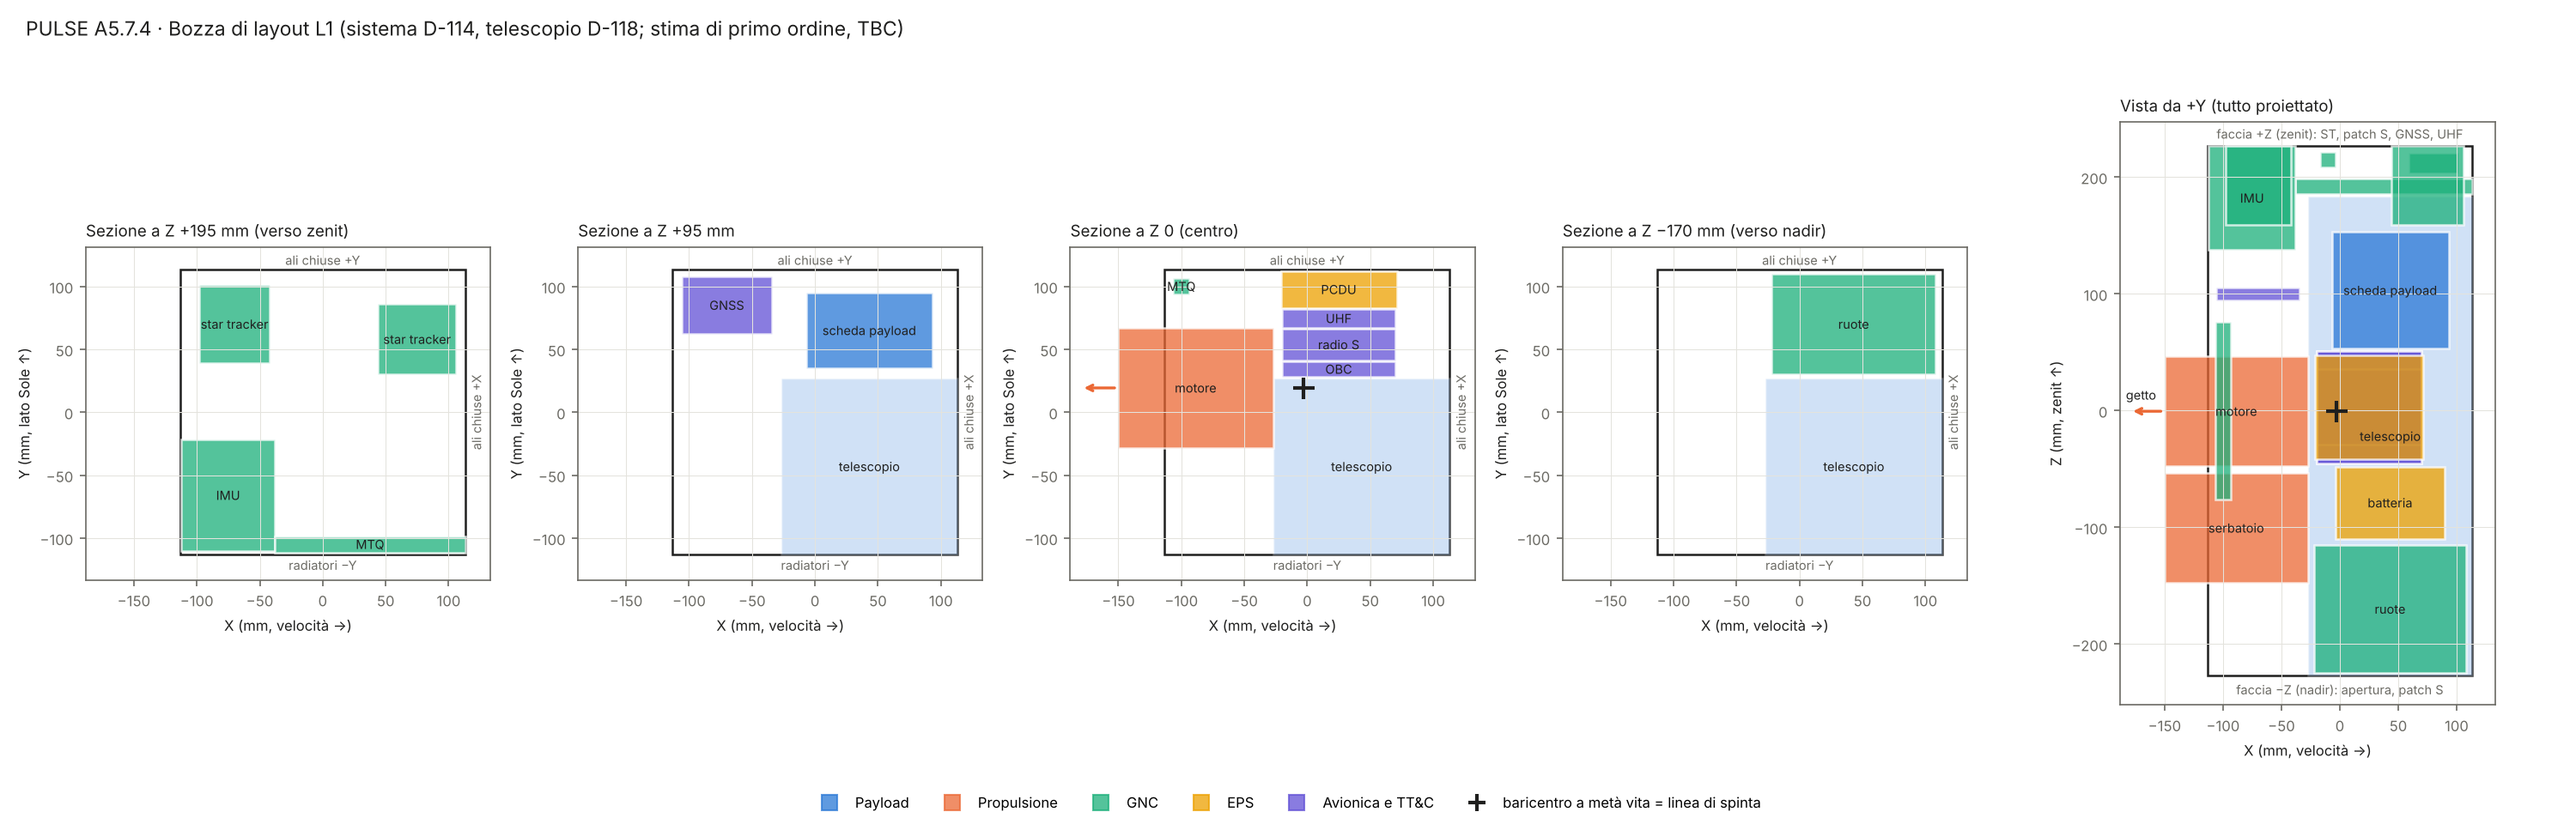
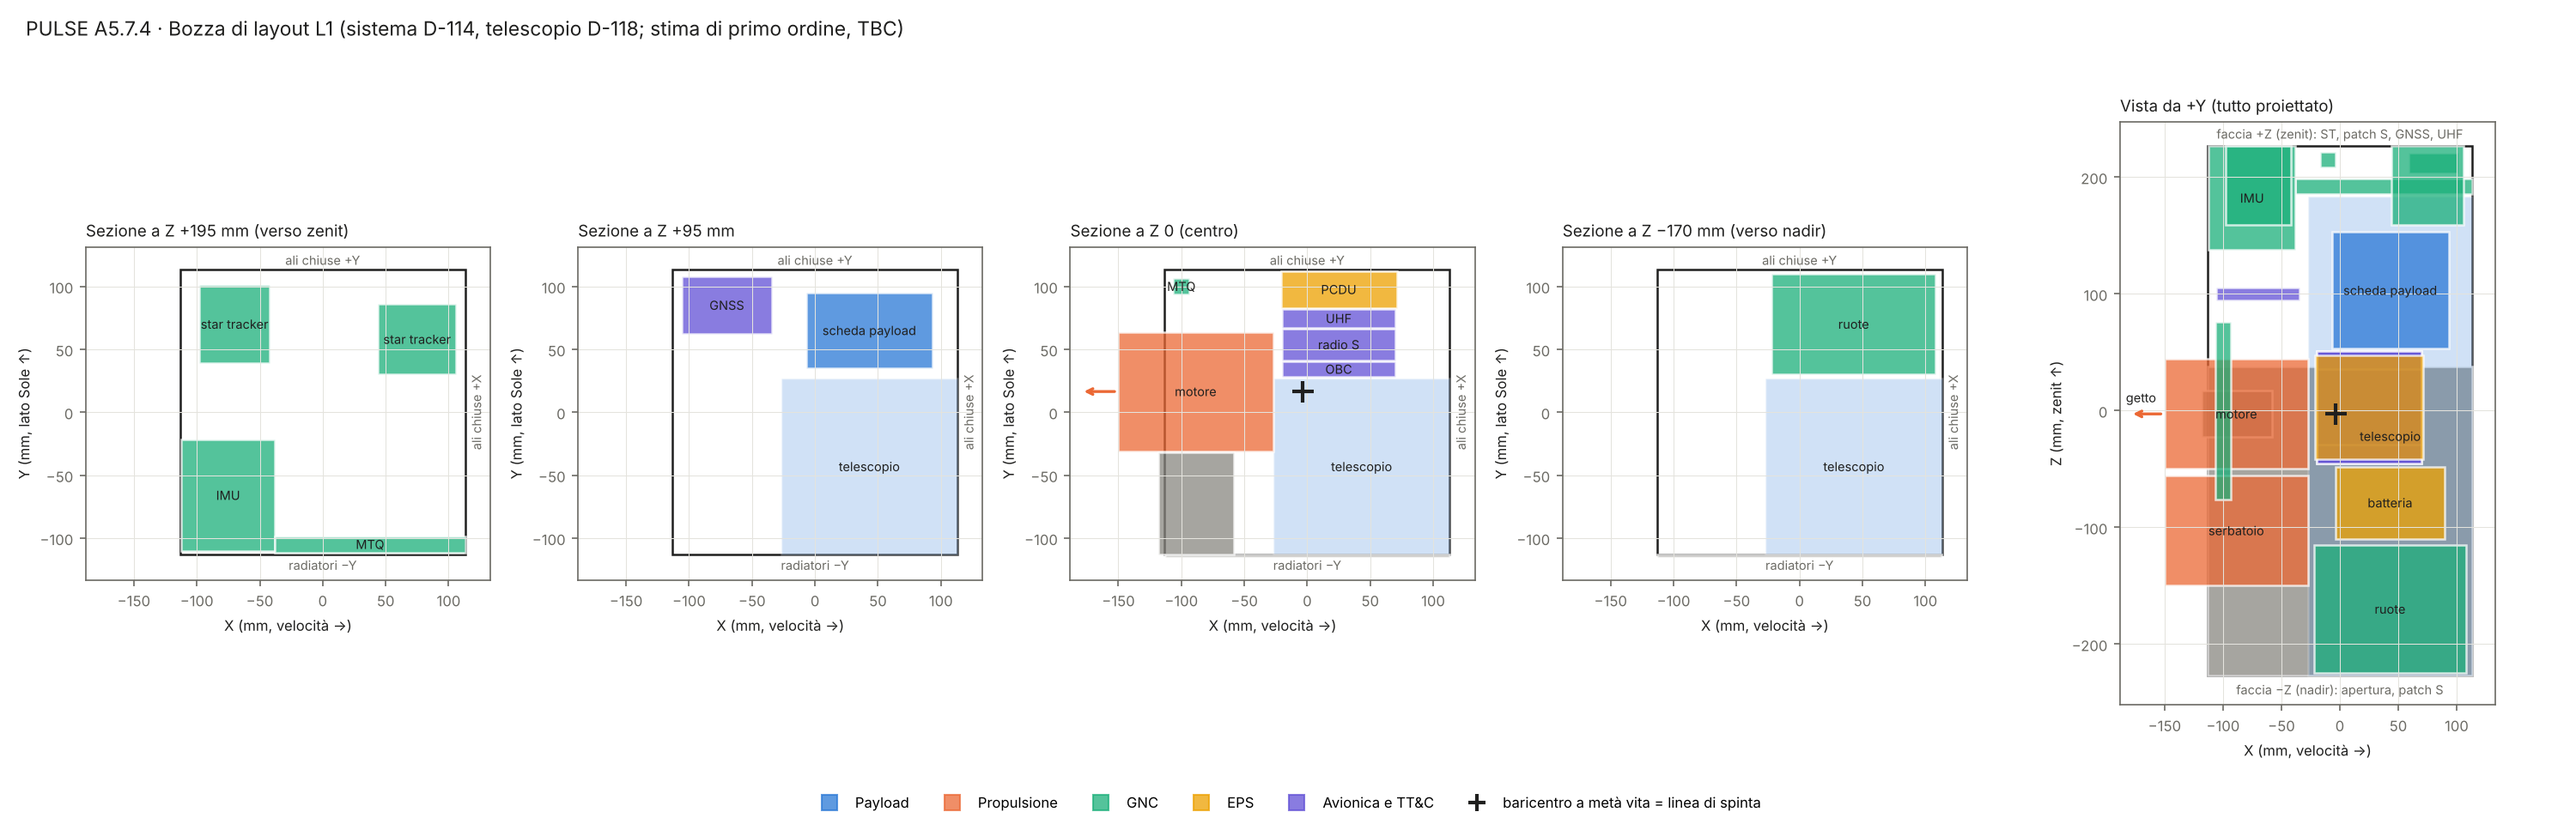
Update folder Layout

diff --git a/PULSE_Layout/A5.7/baricentro.py b/PULSE_Layout/A5.7/baricentro.py
@@ -1,0 +1,104 @@
+"""PULSE A5.7.7 - Baricentro definitivo di Fase A: quattro casi, posizione dell'ugello, verifiche DR-14 / DR-21 / DR-67.
+
+Modello: layout L1b (D-125) con ali W1 (D-126), masse allineate al budget (A5.7.6: star tracker 0,185 kg per testa,
+cablaggi 1,03 kg, termico di piattaforma M-24 0,46 kg con radiatore in basso sulla -Y, D-129, e staffe DR-72).
+Usa le funzioni di ali_stivaggio.py / layout_bozza.py (stesse scatole, stessi pezzi del payload).
+
+1) Ugello (linea di spinta) sul baricentro ad ali aperte a meta' vita: si spinge sempre ad ali aperte.
+2) Quattro casi: ali chiuse/aperte x iodio pieno/vuoto. DR-14 (deployer) vale al lancio (ali chiuse, pieno);
+   DR-21 (<= 10 mm dalla linea di spinta, <= 20 mm dal centro di pressione) e DR-67 (+-5,5 mm) valgono ad ali aperte.
+3) Centro di pressione (stima di primo ordine, flusso libero molecolare lungo +X): baricentro dell'area frontale
+   (faccia +X del corpo + spigoli delle ali aperte, spessore 2 mm). Il rollio fisso (D-106) ruota attorno alla
+   velocita' e non sposta il centro di pressione nel riferimento del satellite.
+4) Coppie di disturbo in spinta contro l'inviluppo di D-047 (densita' 4,6e-11 kg/m3, Cd 2,2).
+5) Sensibilita': masse cresciute del margine di ciascuna voce (D-035); 8 ali (D-127).
+
+Uso: python baricentro.py  ->  risultati/baricentro.txt
+"""
+import os
+import sys
+
+import numpy as np
+
+QUI = os.path.dirname(os.path.abspath(__file__))
+src = open(os.path.join(QUI, "ali_stivaggio.py"), encoding="utf-8").read().split("righe = []")[0]
+exec(compile(src, "ali_stivaggio.py", "exec"))
+
+V_ORB, RHO, CD = 7730.0, 4.6e-11, 2.2      # m/s a 302 km; densita' dimensionante e Cd di D-047
+F_SPINTA = 0.55e-3                          # N, REGULUS a 50 W (D-034)
+MARGINE = {"Catalogo": 0.05, "Catalogo modificato": 0.10, "Nuovo": 0.20}
+MATURITA = {"M-01": "Catalogo", "M-02": "Catalogo", "M-03": "Catalogo", "M-04": "Catalogo modificato", "M-05": "Catalogo",
+            "M-06": "Catalogo", "M-07": "Catalogo modificato", "M-08": "Catalogo", "M-09": "Catalogo modificato",
+            "M-10": "Catalogo modificato", "M-17": "Catalogo", "M-18": "Catalogo modificato", "M-19": "Catalogo modificato",
+            "M-20": "Catalogo", "M-21": "Catalogo modificato", "M-22": "Nuovo", "M-24": "Nuovo", "M-25": "Nuovo"}
+
+
+def ugello(n_lato=3):
+    ym, zm = 0.0, 0.0
+    for _ in range(100):
+        _, g = baricentro(configura(ym, zm, 0.5, "W1", "aperte", n_lato))
+        ym, zm = g[1], g[2]
+    return ym, zm
+
+
+def centro_pressione(n_lato=3):
+    a_corpo = 2 * H * 2 * HZ / 1e6                       # m2, faccia +X
+    lung = n_lato * 454 + (n_lato - 1) * 5               # mm, apertura di un lato
+    a_ala = lung * T_PAN / 1e6                           # m2, spigolo di un lato
+    z_ala = HZ + 3
+    zcp = 2 * a_ala * z_ala / (a_corpo + 2 * a_ala)
+    return 0.0, zcp, a_corpo + 2 * a_ala
+
+
+righe = []
+p = lambda s="": (print(s), righe.append(s))
+p("PULSE A5.7.7 - Baricentro di Fase A (layout L1b, ali W1, masse del budget A5.7.6; stima di primo ordine)")
+for n_lato in (3, 4):
+    ym, zm = ugello(n_lato)
+    ycp, zcp, area = centro_pressione(n_lato)
+    p()
+    p(f"=== {2 * n_lato} ali ===")
+    p(f"Ugello (linea di spinta) a X -{H + 37:.0f} (sporge 37 mm da -X), Y {ym:+.1f}, Z {zm:+.1f} mm")
+    p(f"Centro di pressione (stima): Y {ycp:+.1f}, Z {zcp:+.1f} mm; area frontale {area:.4f} m2")
+    p(f"{'caso':26s} {'massa':>6s} {'X':>7s} {'Y':>7s} {'Z':>7s} {'linea':>7s} {'CP':>7s}  verifiche")
+    for stato in ("chiuse", "aperte"):
+        for nome, f in (("pieno", 1.0), ("vuoto", 0.0)):
+            m, g = baricentro(configura(ym, zm, f, "W1", stato, n_lato))
+            d_l = np.hypot(g[1] - ym, g[2] - zm)
+            d_cp = np.hypot(g[1] - ycp, g[2] - zcp)
+            if stato == "chiuse":
+                ok = abs(g[0]) <= 45 and abs(g[1]) <= 45 and abs(g[2]) <= 90
+                v = f"DR-14 {'ok' if ok else 'NO'}" + (" (lancio)" if f == 1.0 else " (solo riferimento)")
+            else:
+                v = (f"DR-21 linea {'ok' if d_l <= 10 else 'NO'}, CP {'ok' if d_cp <= 20 else 'NO (>20)'}; "
+                     f"DR-67 {'ok' if d_l <= 5.5 else 'NO'}")
+            p(f"ali {stato}, iodio {nome:5s}      {m:6.2f} {g[0]:+7.1f} {g[1]:+7.1f} {g[2]:+7.1f} {d_l:7.1f} {d_cp:7.1f}  {v}")
+    # coppie in spinta (ali aperte, caso peggiore iodio vuoto)
+    m, g = baricentro(configura(ym, zm, 0.0, "W1", "aperte", n_lato))
+    F_aero = 0.5 * RHO * V_ORB ** 2 * CD * area
+    t_sp = F_SPINTA * np.hypot(g[1] - ym, g[2] - zm) / 1000
+    t_ae = F_aero * np.hypot(g[1] - ycp, g[2] - zcp) / 1000
+    p(f"Coppie in spinta, iodio vuoto: spinta {t_sp:.1e} N m + aerodinamica {t_ae:.1e} N m (resistenza {F_aero:.1e} N) "
+      f"= {t_sp + t_ae:.1e} N m; inviluppo D-047 2,3e-5 N m (1,1 mN x 10 mm + aerodinamica + magnetica)")
+    if n_lato == 3:
+        dz = None
+        for zb in np.arange(0, 0.6, 0.01):          # zavorra in fondo (Z -220) che porterebbe il CP entro 20 mm
+            def conf(ym_, zm_, f, st="aperte"):
+                lst = configura(ym_, zm_, f, "W1", st, n_lato)
+                return lst + [("zav", "zavorra", "Struttura", zb, (0, 0, -220), (1, 1, 1), False)]
+            y2, z2 = 0.0, 0.0
+            for _ in range(60):
+                _, g2 = baricentro(conf(y2, z2, 0.5)); y2, z2 = g2[1], g2[2]
+            _, gv = baricentro(conf(y2, z2, 0.0))
+            if np.hypot(gv[1] - ycp, gv[2] - zcp) <= 20:
+                dz = zb; break
+        p(f"Zavorra in fondo (Z -220 mm) che porterebbe il baricentro entro 20 mm dal CP per tutta la vita: "
+          f"{dz:.2f} kg nominali" if dz is not None else "Zavorra: oltre 0,6 kg")
+        # sensibilita': masse cresciute del margine
+        def cresciute(lst):
+            return [(c[0], c[1], c[2], c[3] * (1 + MARGINE.get(MATURITA.get(c[0], ""), 0.0)), c[4], c[5], c[6]) for c in lst]
+        _, g0 = baricentro(configura(ym, zm, 0.5, "W1", "aperte"))
+        _, g1 = baricentro(cresciute(configura(ym, zm, 0.5, "W1", "aperte")))
+        p(f"Sensibilita' (masse di piattaforma cresciute del margine di voce, payload invariato): baricentro a meta' vita "
+          f"si sposta di Y {g1[1] - g0[1]:+.1f} Z {g1[2] - g0[2]:+.1f} mm")
+open(os.path.join(QUI, "risultati", "baricentro.txt"), "w", encoding="utf-8").write("\n".join(righe) + "\n")

diff --git a/PULSE_Layout/A5.7/layout_bozza.py b/PULSE_Layout/A5.7/layout_bozza.py
@@ -54,8 +54,8 @@ def piattaforma(ym, zm, iodio):
         ("M-19", "Batteria 4S3P (sotto la pila delle schede)", "EPS", 0.75, (43, 70, -79), (93, 86, 62), False),
         ("M-20", "PCDU (P60), nella pila delle schede", "EPS", 0.282, (25, 97.5, 3), (92, 29, 89), False),
         ("M-03", "IMU (inviluppo KVH 1750)", "GNC", 0.70, (-H + 37 + 1, -66, 182), (74, 89, 89), False),
-        ("M-02", "Star tracker 1 (paraluce corto, verso +Z)", "GNC", 0.235, (-70, 70, 193), (56, 62, 68), False),
-        ("M-02", "Star tracker 2 (paraluce corto, verso +Z)", "GNC", 0.235, (75, 58, 193), (62, 56, 68), False),
+        ("M-02", "Star tracker 1 (paraluce corto, verso +Z)", "GNC", 0.185, (-70, 70, 193), (56, 62, 68), False),
+        ("M-02", "Star tracker 2 (paraluce corto, verso +Z)", "GNC", 0.185, (75, 58, 193), (62, 56, 68), False),
         ("M-01", "Gruppo 4 ruote in piramide (ingombro TBC)", "GNC", 1.32, (43, 70, -170), (130, 80, 110), False),
         ("M-04", "Magnetorquer X", "GNC", 0.20, (37.6, -105, 192), (152, 13, 13), False),
         ("M-04", "Magnetorquer Y", "GNC", 0.20, (-10, -43, 215), (13, 140, 13), False),
@@ -74,7 +74,12 @@ def piattaforma(ym, zm, iodio):
         ("M-22", "Meccanismi delle ali (verso +Z)", "Struttura", 0.36, (40, 40, 200), (1, 1, 1), True),
         ("M-18", "3 ali chiuse sulla faccia +Y", "EPS", 1.65, (0, H + 8, 0), (226, 12, 454), True),
         ("M-18", "3 ali chiuse sulla faccia +X", "EPS", 1.65, (H + 8, 0, 0), (12, 226, 454), True),
-        ("M-25", "Cablaggi (5%, al centro)", "Struttura", 1.01, (0, 0, 0), (1, 1, 1), False),
+        ("M-25", "Cablaggi (5%, al centro)", "Struttura", 1.03, (0, 0, 0), (1, 1, 1), False),
+        # M-24 termico di piattaforma (Giuseppe, 0,46 kg, D-122/D-128/D-129): ripartizione di A5.8.4 (TBC)
+        ("M-24", "Radiatore di piattaforma 600 cm² (-Y in basso, D-129)", "Struttura", 0.17, (0, -H - 1, (-227 + 38) / 2), (226, 2, 265), True),
+        ("M-24", "MLI sul corpo (distribuita)", "Struttura", 0.09, (0, 0, 0), (1, 1, 1), True),
+        ("M-24", "Staffe termiche motore -> parete -Y (DR-72)", "Struttura", 0.16, (-88, (-H + ym - 48.5) / 2, zm), (60, ym - 48.5 + H, 40), False),
+        ("M-24", "Riscaldatori, termostati, sensori", "Struttura", 0.04, (0, 0, 0), (1, 1, 1), False),
     ]
     if VAR == "L1b":
         # pila delle schede nella fetta -X, sopra il motore, di taglio contro la parete -Y (radiatore, DR-70);

diff --git a/PULSE_Layout/A5.7/README.md b/PULSE_Layout/A5.7/README.md
@@ -22,7 +22,7 @@ Calcoli del passo A5.7 (layout: massa, volume, posizione dei componenti, baricen
 | A5.7.4 | Disposizione interna e facce esterne (bozza subito a Giuseppe per il termico) | Chiuso (L1b, D-125; D-123, D-124, D-091 approvate) |
 | A5.7.5 | Stivaggio delle ali (6, posto per 8) | Chiuso (W1, D-126 Proposta; D-127 Approvata) |
 | A5.7.6 | Bilancio di massa | Chiuso (28,52 kg al rilascio con margini; D-135 Proposta: nessuna zavorra) |
-| A5.7.7 | Baricentro (iodio pieno/vuoto, ali chiuse/aperte) | Da fare |
+| A5.7.7 | Baricentro (iodio pieno/vuoto, ali chiuse/aperte) | Chiuso (ugello Y +3,9 / Z +30,5 mm; D-137 Proposta, DR-74) |
 | A5.7.8 | Inerzie e verifiche GNC (D-043, DR-22, DR-61) | Da fare |
 | A5.7.9 | Pacchetto dati per il termico (D-110) | Da fare |
 | A5.7.10 | Chiusura: registro, requisiti, rischi, budget, report | Da fare |
@@ -34,9 +34,10 @@ Calcoli del passo A5.7 (layout: massa, volume, posizione dei componenti, baricen
 | `profilo_spinta.py` | A5.7 (dati per A5.8) | Minuti di spinta per orbita, accensioni e tratti continui per Sole medio, limite dei 6 pannelli e Sole alto, dal modello A5.6.7 (senza cambiarlo) |
 | `regulus_vincoli.py` | A5.7.3 | Spazio per il blocco motore tra la faccia −X e il telescopio (centrato o contro +X, con e senza sporgenza); massa dello iodio e spostamento del baricentro con il consumo |
 | `componenti_piattaforma.py` | A5.7.2 | Componenti di piattaforma di Giuliano: quantità, massa, ingombro, limiti di temperatura in funzione e da spenti, fonte (CSV per layout e termico) |
-| `layout_bozza.py` | A5.7.4 | Bozza di layout (`python layout_bozza.py L1` o `L1b`): componenti come scatole, verifica di ingombri e sovrapposizioni, linea di spinta sul baricentro a metà vita, baricentro con iodio pieno/vuoto, figura con 4 sezioni e una vista; CSV delle posizioni per il termico |
+| `layout_bozza.py` | A5.7.4 (masse allineate al budget in A5.7.7) | Bozza di layout (`python layout_bozza.py L1` o `L1b`): componenti come scatole, verifica di ingombri e sovrapposizioni, linea di spinta sul baricentro a metà vita, baricentro con iodio pieno/vuoto, figura con 4 sezioni e una vista; CSV delle posizioni per il termico |
 | `ali_stivaggio.py` | A5.7.5 | Configurazioni delle ali W1/W2/W3 (e W1 con 8 ali) sul layout L1b: linea di spinta ad ali aperte, baricentro pieno/vuoto e al lancio, ingombri, inerzie ad ali aperte e chiuse, figura; CSV delle posizioni W1 (ali aperte e chiuse) per il termico |
 | `massa_bilancio.py` | A5.7.6 | Bilancio di massa dal file dei budget: totali per sottosistema, massa secca e bagnata, margini, sensibilità (8 ali, cablaggi su massa secca, deployer da 24 kg), confronto con il modello di layout |
+| `baricentro.py` | A5.7.7 | Baricentro di Fase A con le masse del budget: posizione dell'ugello (baricentro ad ali aperte a metà vita), quattro casi (ali chiuse/aperte × iodio pieno/vuoto), DR-14 / DR-21 / DR-67, centro di pressione stimato, coppie in spinta, zavorra equivalente, sensibilità; anche con 8 ali |
 | `riscaldatori_potenza.py` | A5.7 (verifica di D-116) | Spinta sostenibile e SoC minimo con i riscaldatori di piattaforma come carico costante, dal modello A5.6.7 con la regola D-112 |
 
 Uso: `python profilo_spinta.py` (e così gli altri). Risultati in `risultati/`. Richiede numpy e matplotlib (come A5.6, da cui importa).
